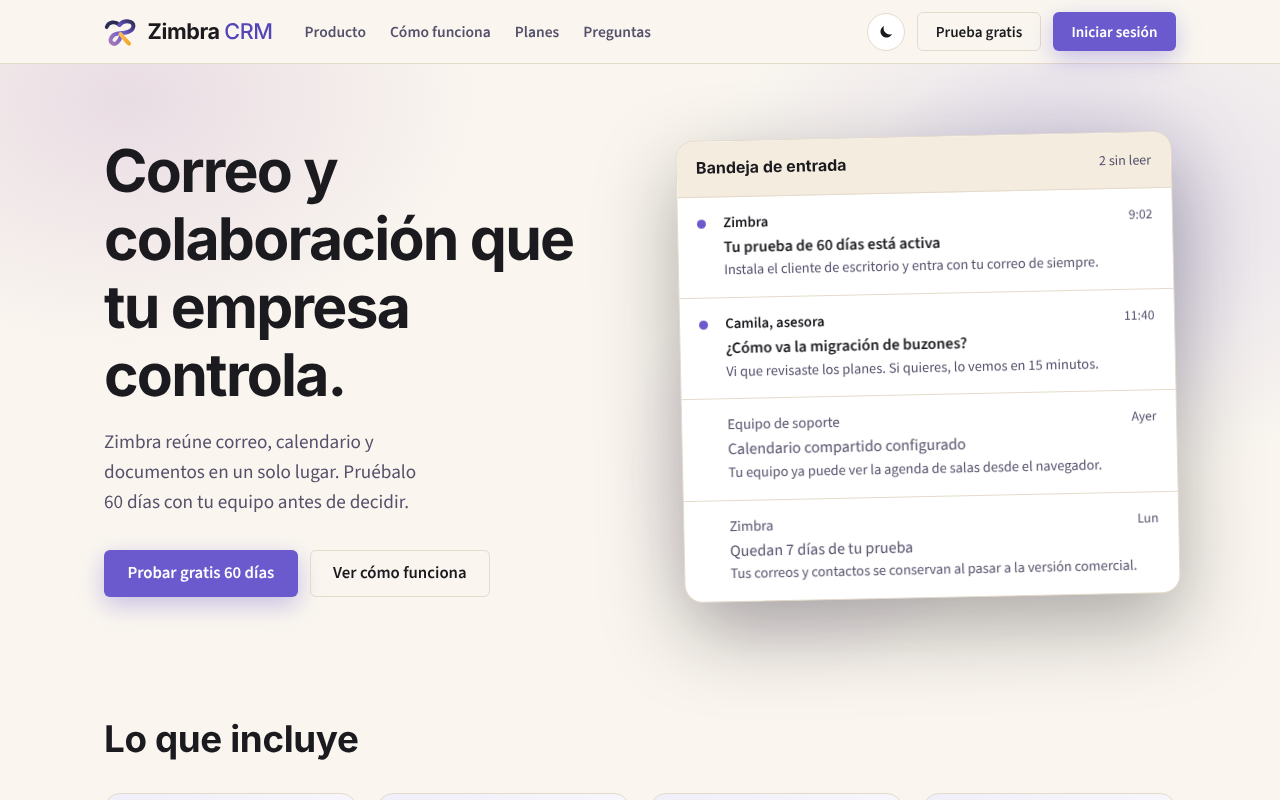
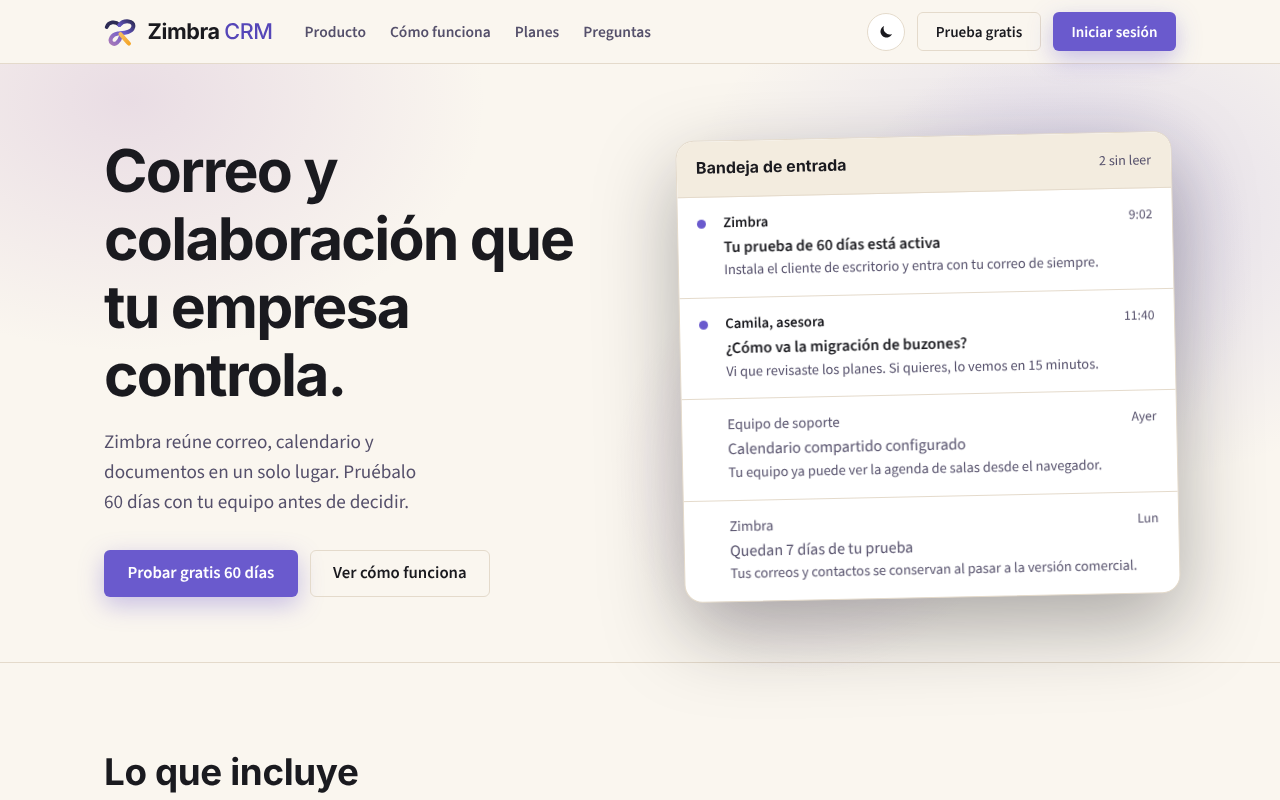
Separación visual entre las secciones de la página principal
Franjas de fondo alternas, línea divisoria y más espacio entre secciones.

Claude-Session: https://claude.ai/code/session_01Q1CSEXf1Umxt19NrFdcMPU

Changed region(s): [[0.0625, 0.9062, 0.2812, 1.0]]

diff --git a/frontend/src/styles/landing.css b/frontend/src/styles/landing.css
@@ -746,3 +746,14 @@
   .site-header .logo-nombre { font-size: 1.15rem; }
   .site-header .btn { padding-inline: 0.8rem; font-size: 0.9rem; }
 }
+
+/* Secciones separadas: franjas alternas, línea divisoria y más aire */
+.landing .band { border-top: 1px solid var(--line); }
+.landing .band-inner { padding: 5.5rem 1.5rem; }
+.landing #como-funciona,
+.landing #prueba { background: color-mix(in srgb, var(--accent) 5%, var(--paper)); }
+[data-theme='dark'] .landing #como-funciona,
+[data-theme='dark'] .landing #prueba { background: color-mix(in srgb, var(--accent) 7%, #141419); }
+@media (max-width: 720px) {
+  .landing .band-inner { padding: 3.75rem 1.25rem; }
+}
